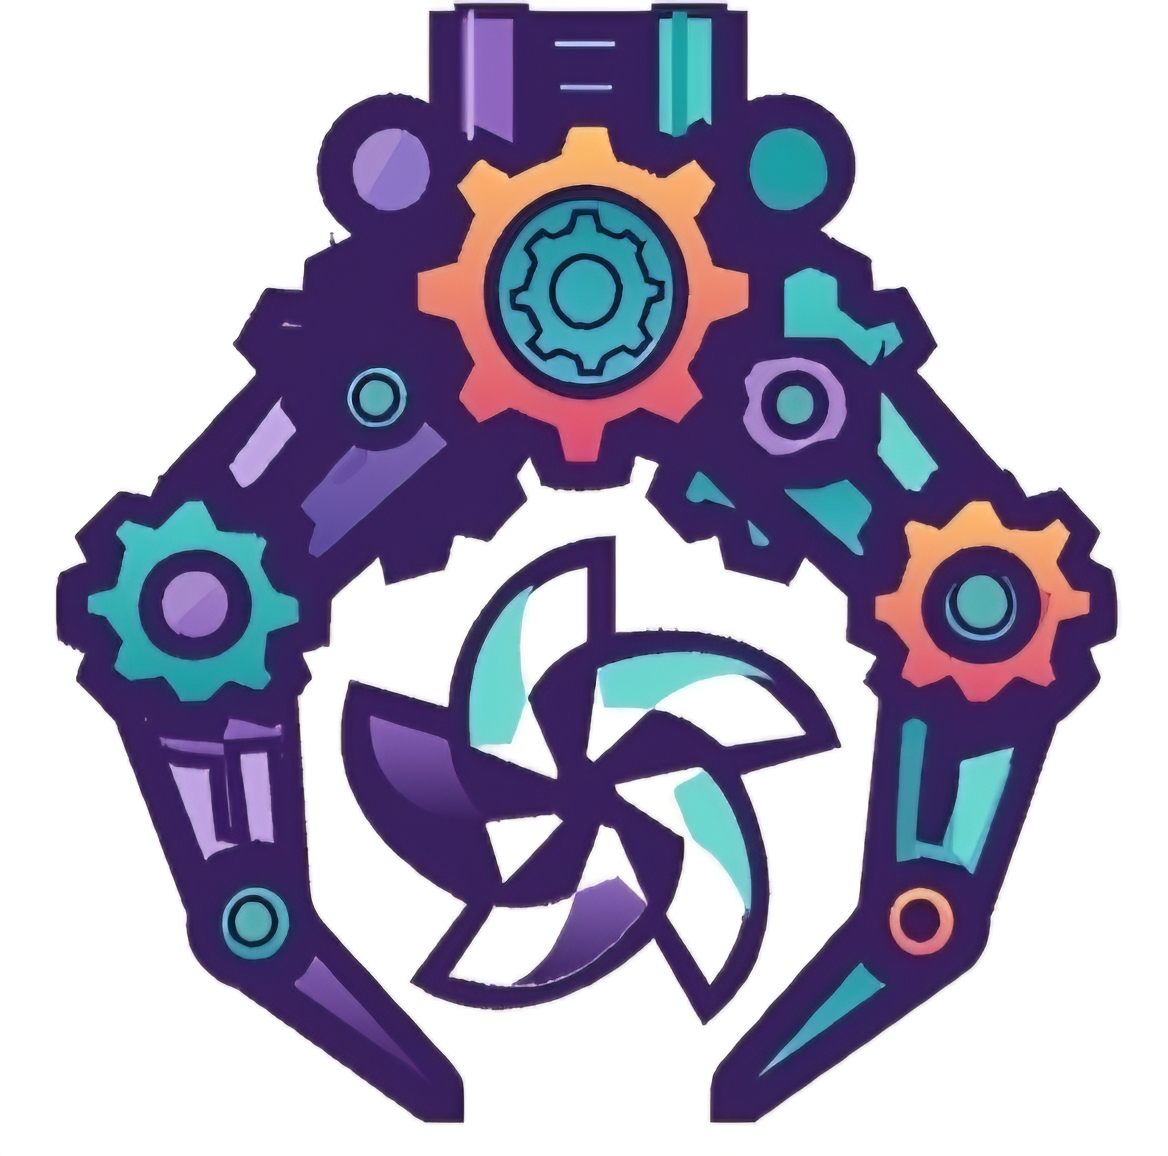
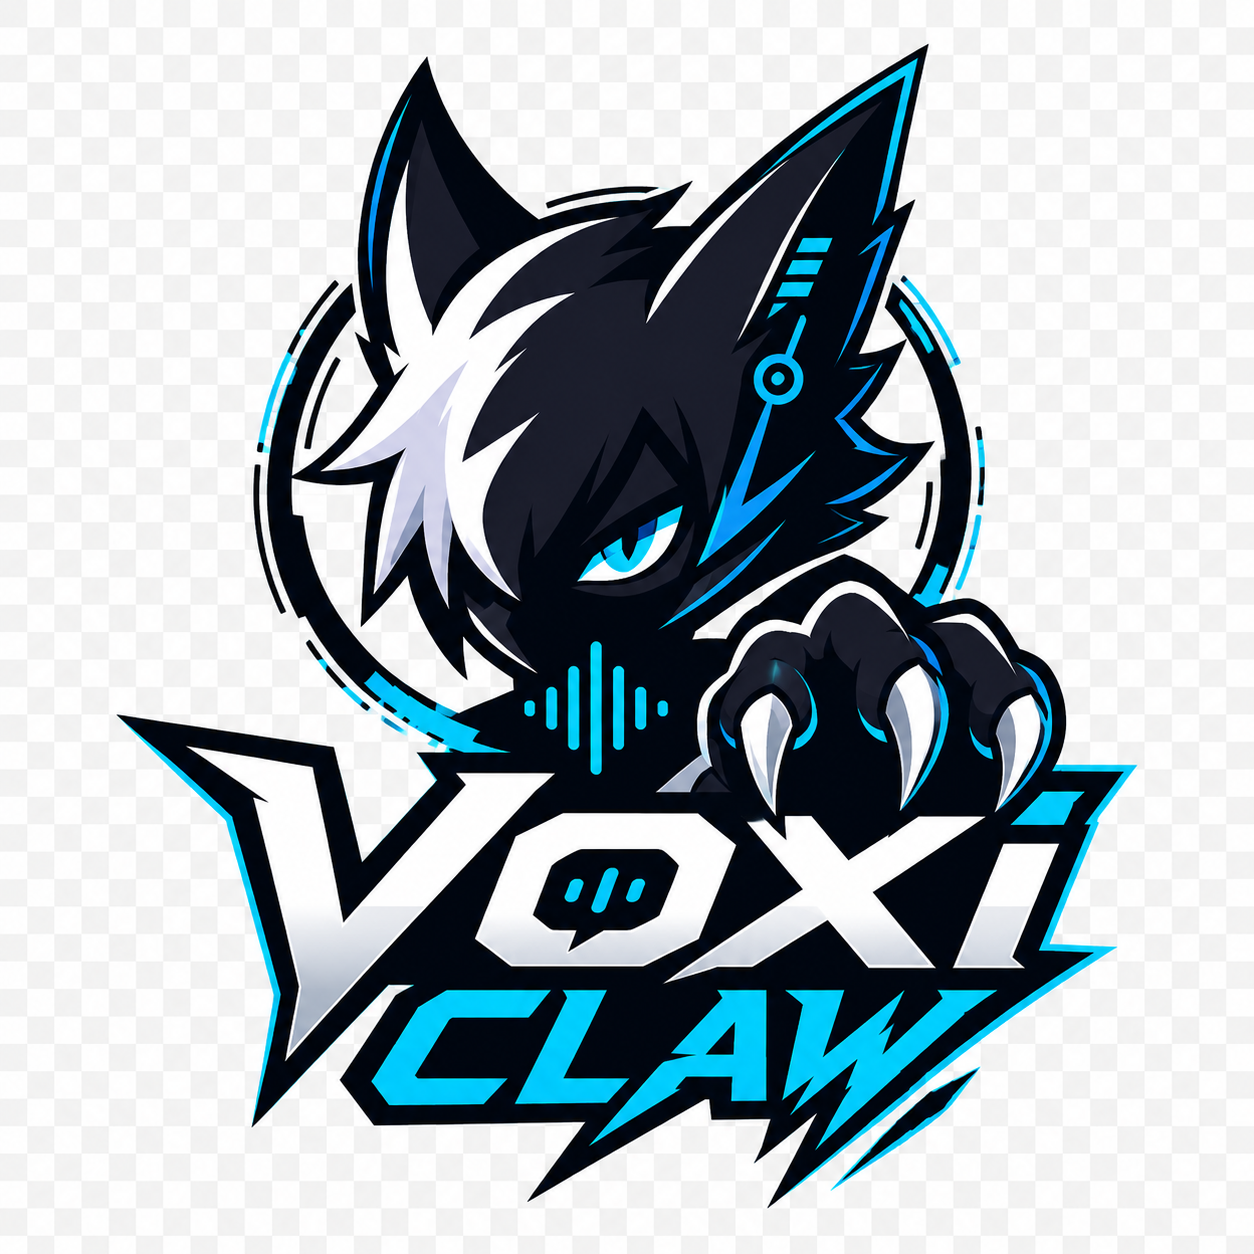
Fix web dashboard IPC connection on macOS
Implement dynamic IPC socket address resolution in the web dashboard. Connect
to filesystem-based Unix domain sockets on macOS or when VOXI_SOCKET_PATH
is specified, rather than always forcing abstract sockets. This resolves the
dashboard showing "disconnected" status on macOS hosts.

diff --git a/src/voxi-web-dashboard/src/main.rs b/src/voxi-web-dashboard/src/main.rs
@@ -1524,6 +1524,54 @@ async fn api_a2a() -> Json<Value> {
 
 // ─── IPC helper ───────────────────────────────────────────────
 
+unsafe fn get_ipc_addr() -> Result<(libc::sockaddr_un, libc::socklen_t), String> {
+    let mut addr: libc::sockaddr_un = std::mem::zeroed();
+    addr.sun_family = libc::AF_UNIX as libc::sa_family_t;
+    
+    let mut is_filesystem = false;
+    let mut path_buf = std::path::PathBuf::new();
+
+    if let Ok(socket_path) = std::env::var("VOXI_SOCKET_PATH") {
+        if !socket_path.trim().is_empty() {
+            is_filesystem = true;
+            path_buf = std::path::PathBuf::from(socket_path);
+        }
+    }
+
+    if !is_filesystem && cfg!(target_os = "macos") {
+        is_filesystem = true;
+        let data_dir = if let Ok(path) = std::env::var("VOXI_DATA_DIR") {
+            std::path::PathBuf::from(path)
+        } else if std::path::Path::new("/opt/usr/share/voxi").exists() {
+            std::path::PathBuf::from("/opt/usr/share/voxi")
+        } else {
+            let home = std::env::var("HOME").unwrap_or_else(|_| "/tmp".to_string());
+            std::path::PathBuf::from(home).join(".voxi")
+        };
+        path_buf = data_dir.join("run").join("voxi.sock");
+    }
+
+    let addr_len = if is_filesystem {
+        let path_str = path_buf.to_string_lossy();
+        let bytes = path_str.as_bytes();
+        if bytes.len() >= addr.sun_path.len() {
+            return Err(format!("Socket path too long: {}", path_str));
+        }
+        for (i, &b) in bytes.iter().enumerate() {
+            addr.sun_path[i] = b as libc::c_char;
+        }
+        (std::mem::size_of::<libc::sa_family_t>() + bytes.len() + 1) as libc::socklen_t
+    } else {
+        let name = b"voxi.sock";
+        for (i, &b) in name.iter().enumerate() {
+            addr.sun_path[1 + i] = b as libc::c_char;
+        }
+        (std::mem::size_of::<libc::sa_family_t>() + 1 + name.len()) as libc::socklen_t
+    };
+
+    Ok((addr, addr_len))
+}
+
 /// Query live token-usage counters from the agent daemon.
 /// Returns `None` when the agent is unreachable or returns an error.
 fn ipc_get_usage() -> Option<Value> {
@@ -1533,14 +1581,13 @@ fn ipc_get_usage() -> Option<Value> {
             return None;
         }
 
-        let mut addr: libc::sockaddr_un = std::mem::zeroed();
-        addr.sun_family = libc::AF_UNIX as libc::sa_family_t;
-        let name = b"voxi.sock";
-        for (i, b) in name.iter().enumerate() {
-            addr.sun_path[1 + i] = *b as libc::c_char;
-        }
-        let addr_len =
-            (std::mem::size_of::<libc::sa_family_t>() + 1 + name.len()) as libc::socklen_t;
+        let (addr, addr_len) = match get_ipc_addr() {
+            Ok(val) => val,
+            Err(_) => {
+                libc::close(fd);
+                return None;
+            }
+        };
 
         // Short timeout: don't block the metrics endpoint.
         let timeout = libc::timeval {
@@ -1618,14 +1665,13 @@ fn ipc_send_prompt(session_id: &str, prompt: &str, request_id: Option<&str>) -> 
             return Err("Failed to create IPC socket".into());
         }
 
-        let mut addr: libc::sockaddr_un = std::mem::zeroed();
-        addr.sun_family = libc::AF_UNIX as libc::sa_family_t;
-        let name = b"voxi.sock";
-        for (i, b) in name.iter().enumerate() {
-            addr.sun_path[1 + i] = *b as libc::c_char;
-        }
-        let addr_len =
-            (std::mem::size_of::<libc::sa_family_t>() + 1 + name.len()) as libc::socklen_t;
+        let (addr, addr_len) = match get_ipc_addr() {
+            Ok(val) => val,
+            Err(e) => {
+                libc::close(fd);
+                return Err(e);
+            }
+        };
 
         if libc::connect(fd, &addr as *const _ as *const libc::sockaddr, addr_len) < 0 {
             libc::close(fd);
@@ -1703,14 +1749,13 @@ fn ipc_call(method: &str, params: Value) -> Result<Value, String> {
             return Err("Failed to create IPC socket".into());
         }
 
-        let mut addr: libc::sockaddr_un = std::mem::zeroed();
-        addr.sun_family = libc::AF_UNIX as libc::sa_family_t;
-        let name = b"voxi.sock";
-        for (i, b) in name.iter().enumerate() {
-            addr.sun_path[1 + i] = *b as libc::c_char;
-        }
-        let addr_len =
-            (std::mem::size_of::<libc::sa_family_t>() + 1 + name.len()) as libc::socklen_t;
+        let (addr, addr_len) = match get_ipc_addr() {
+            Ok(val) => val,
+            Err(e) => {
+                libc::close(fd);
+                return Err(e);
+            }
+        };
 
         if libc::connect(fd, &addr as *const _ as *const libc::sockaddr, addr_len) < 0 {
             libc::close(fd);